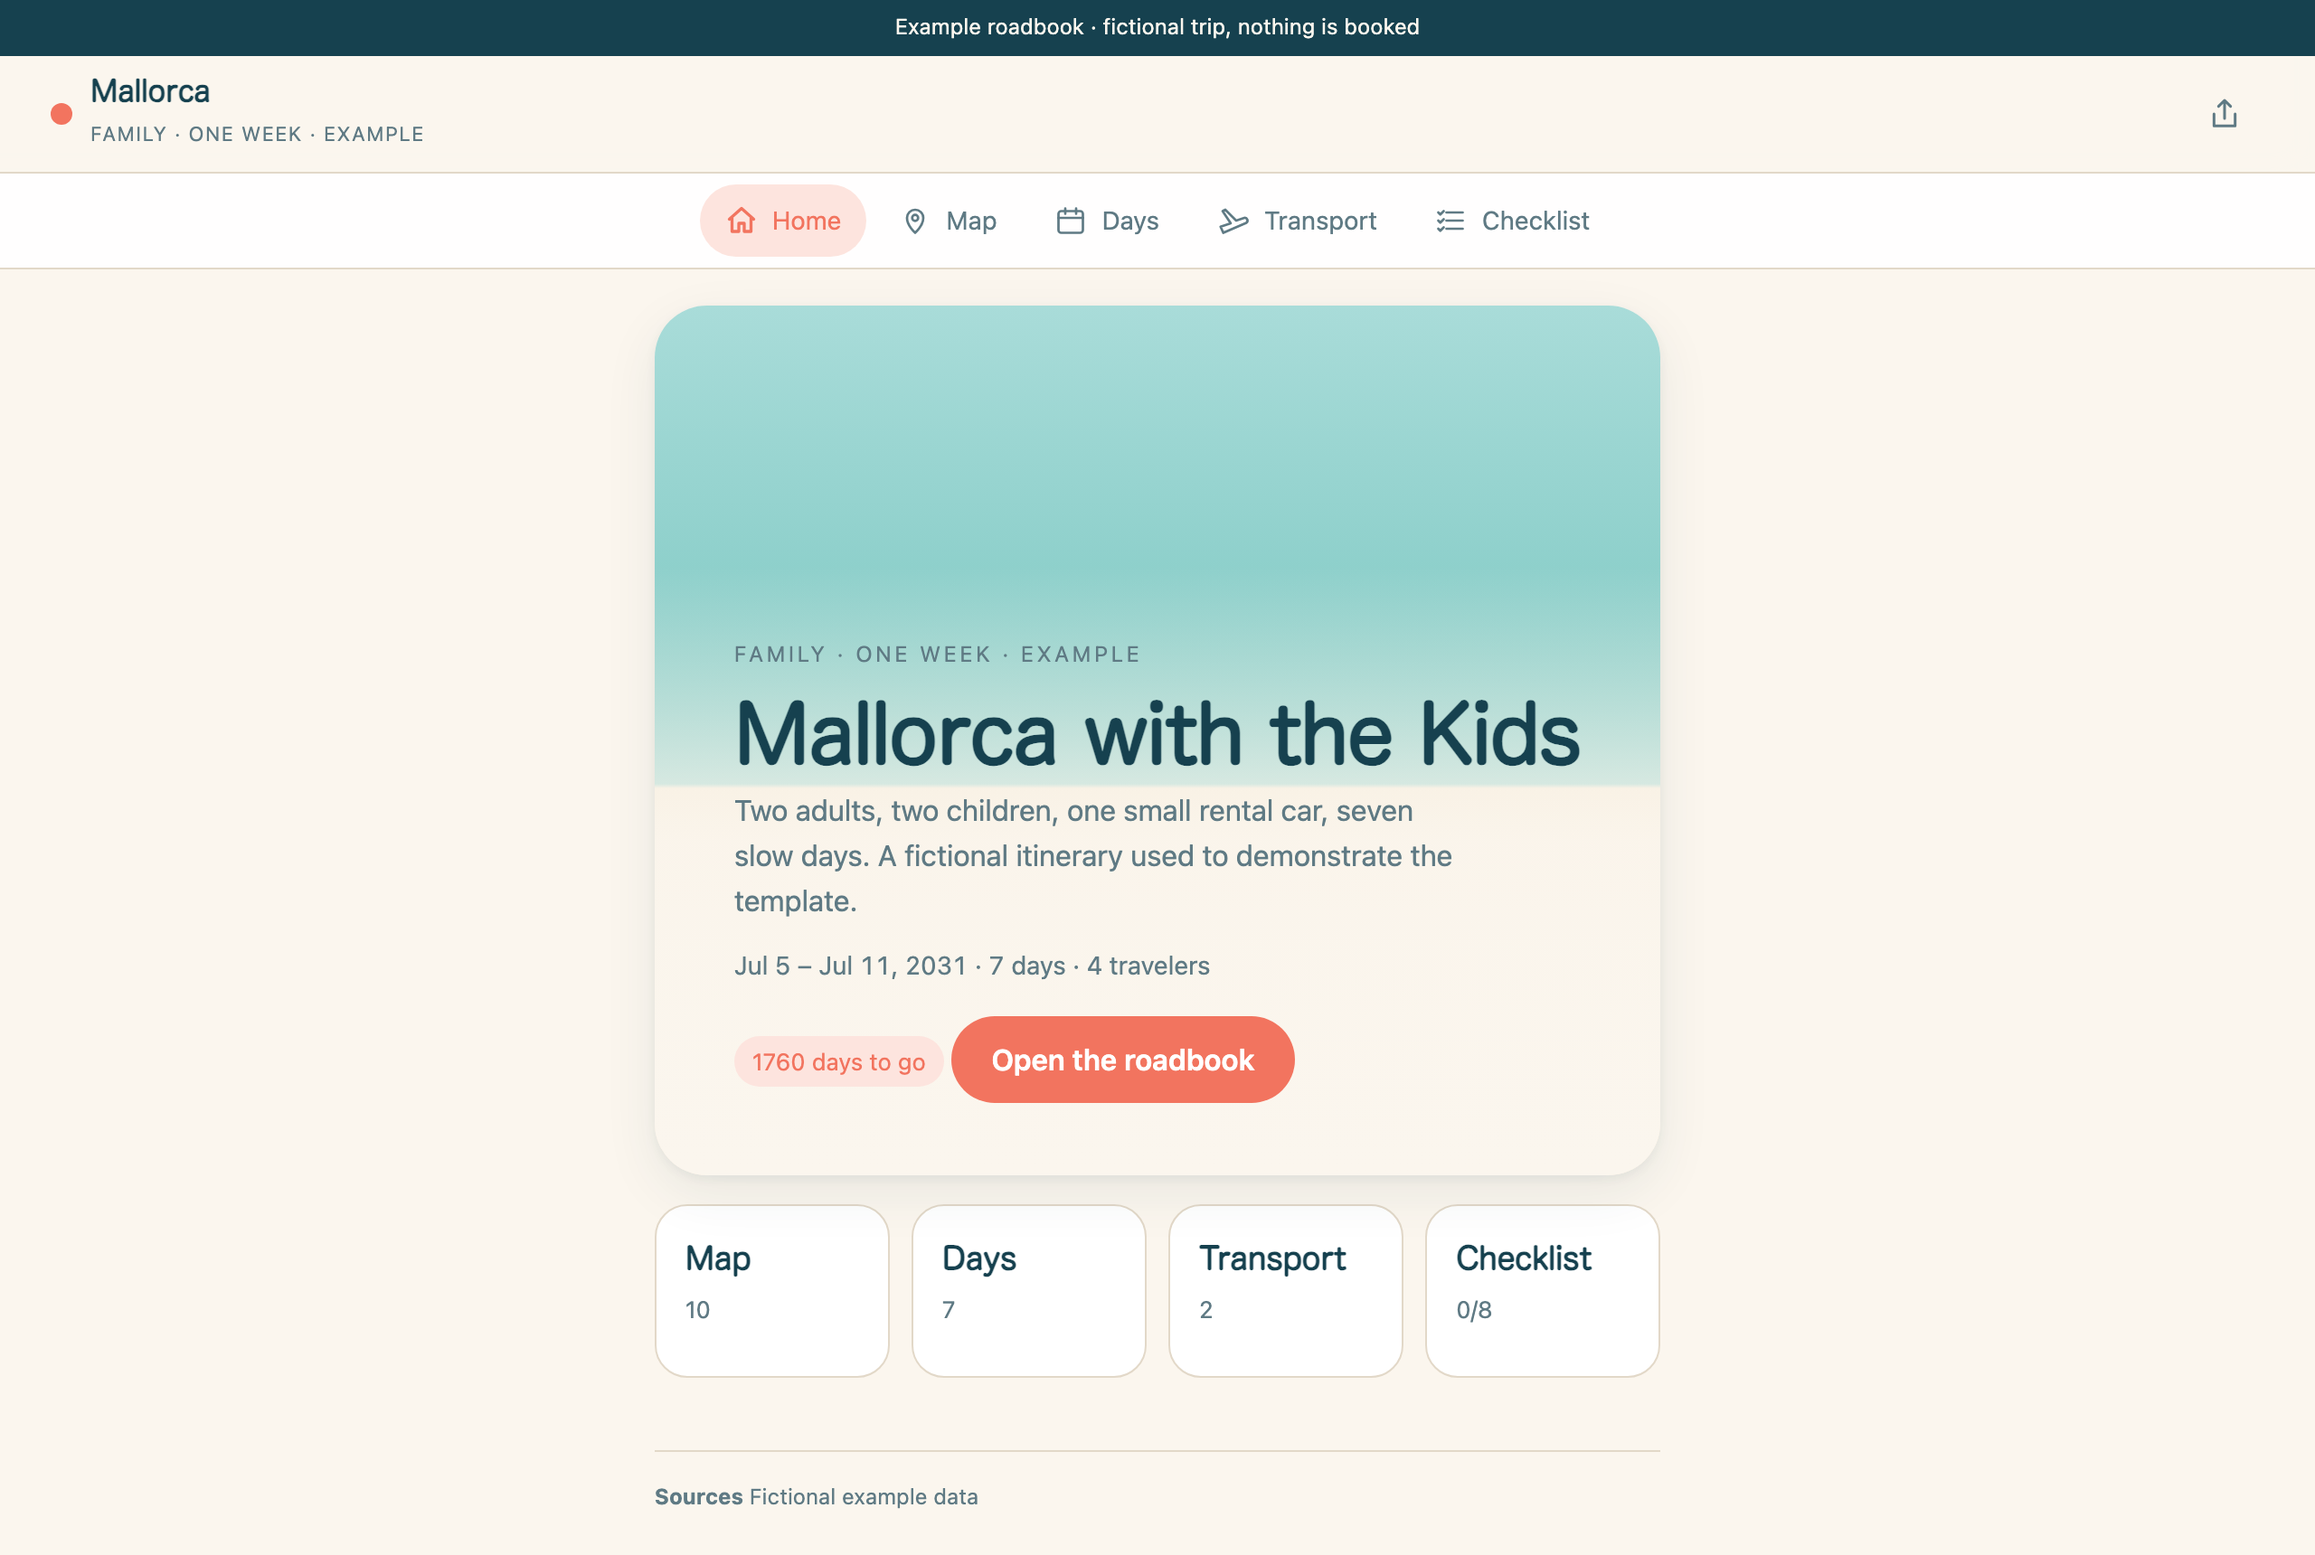
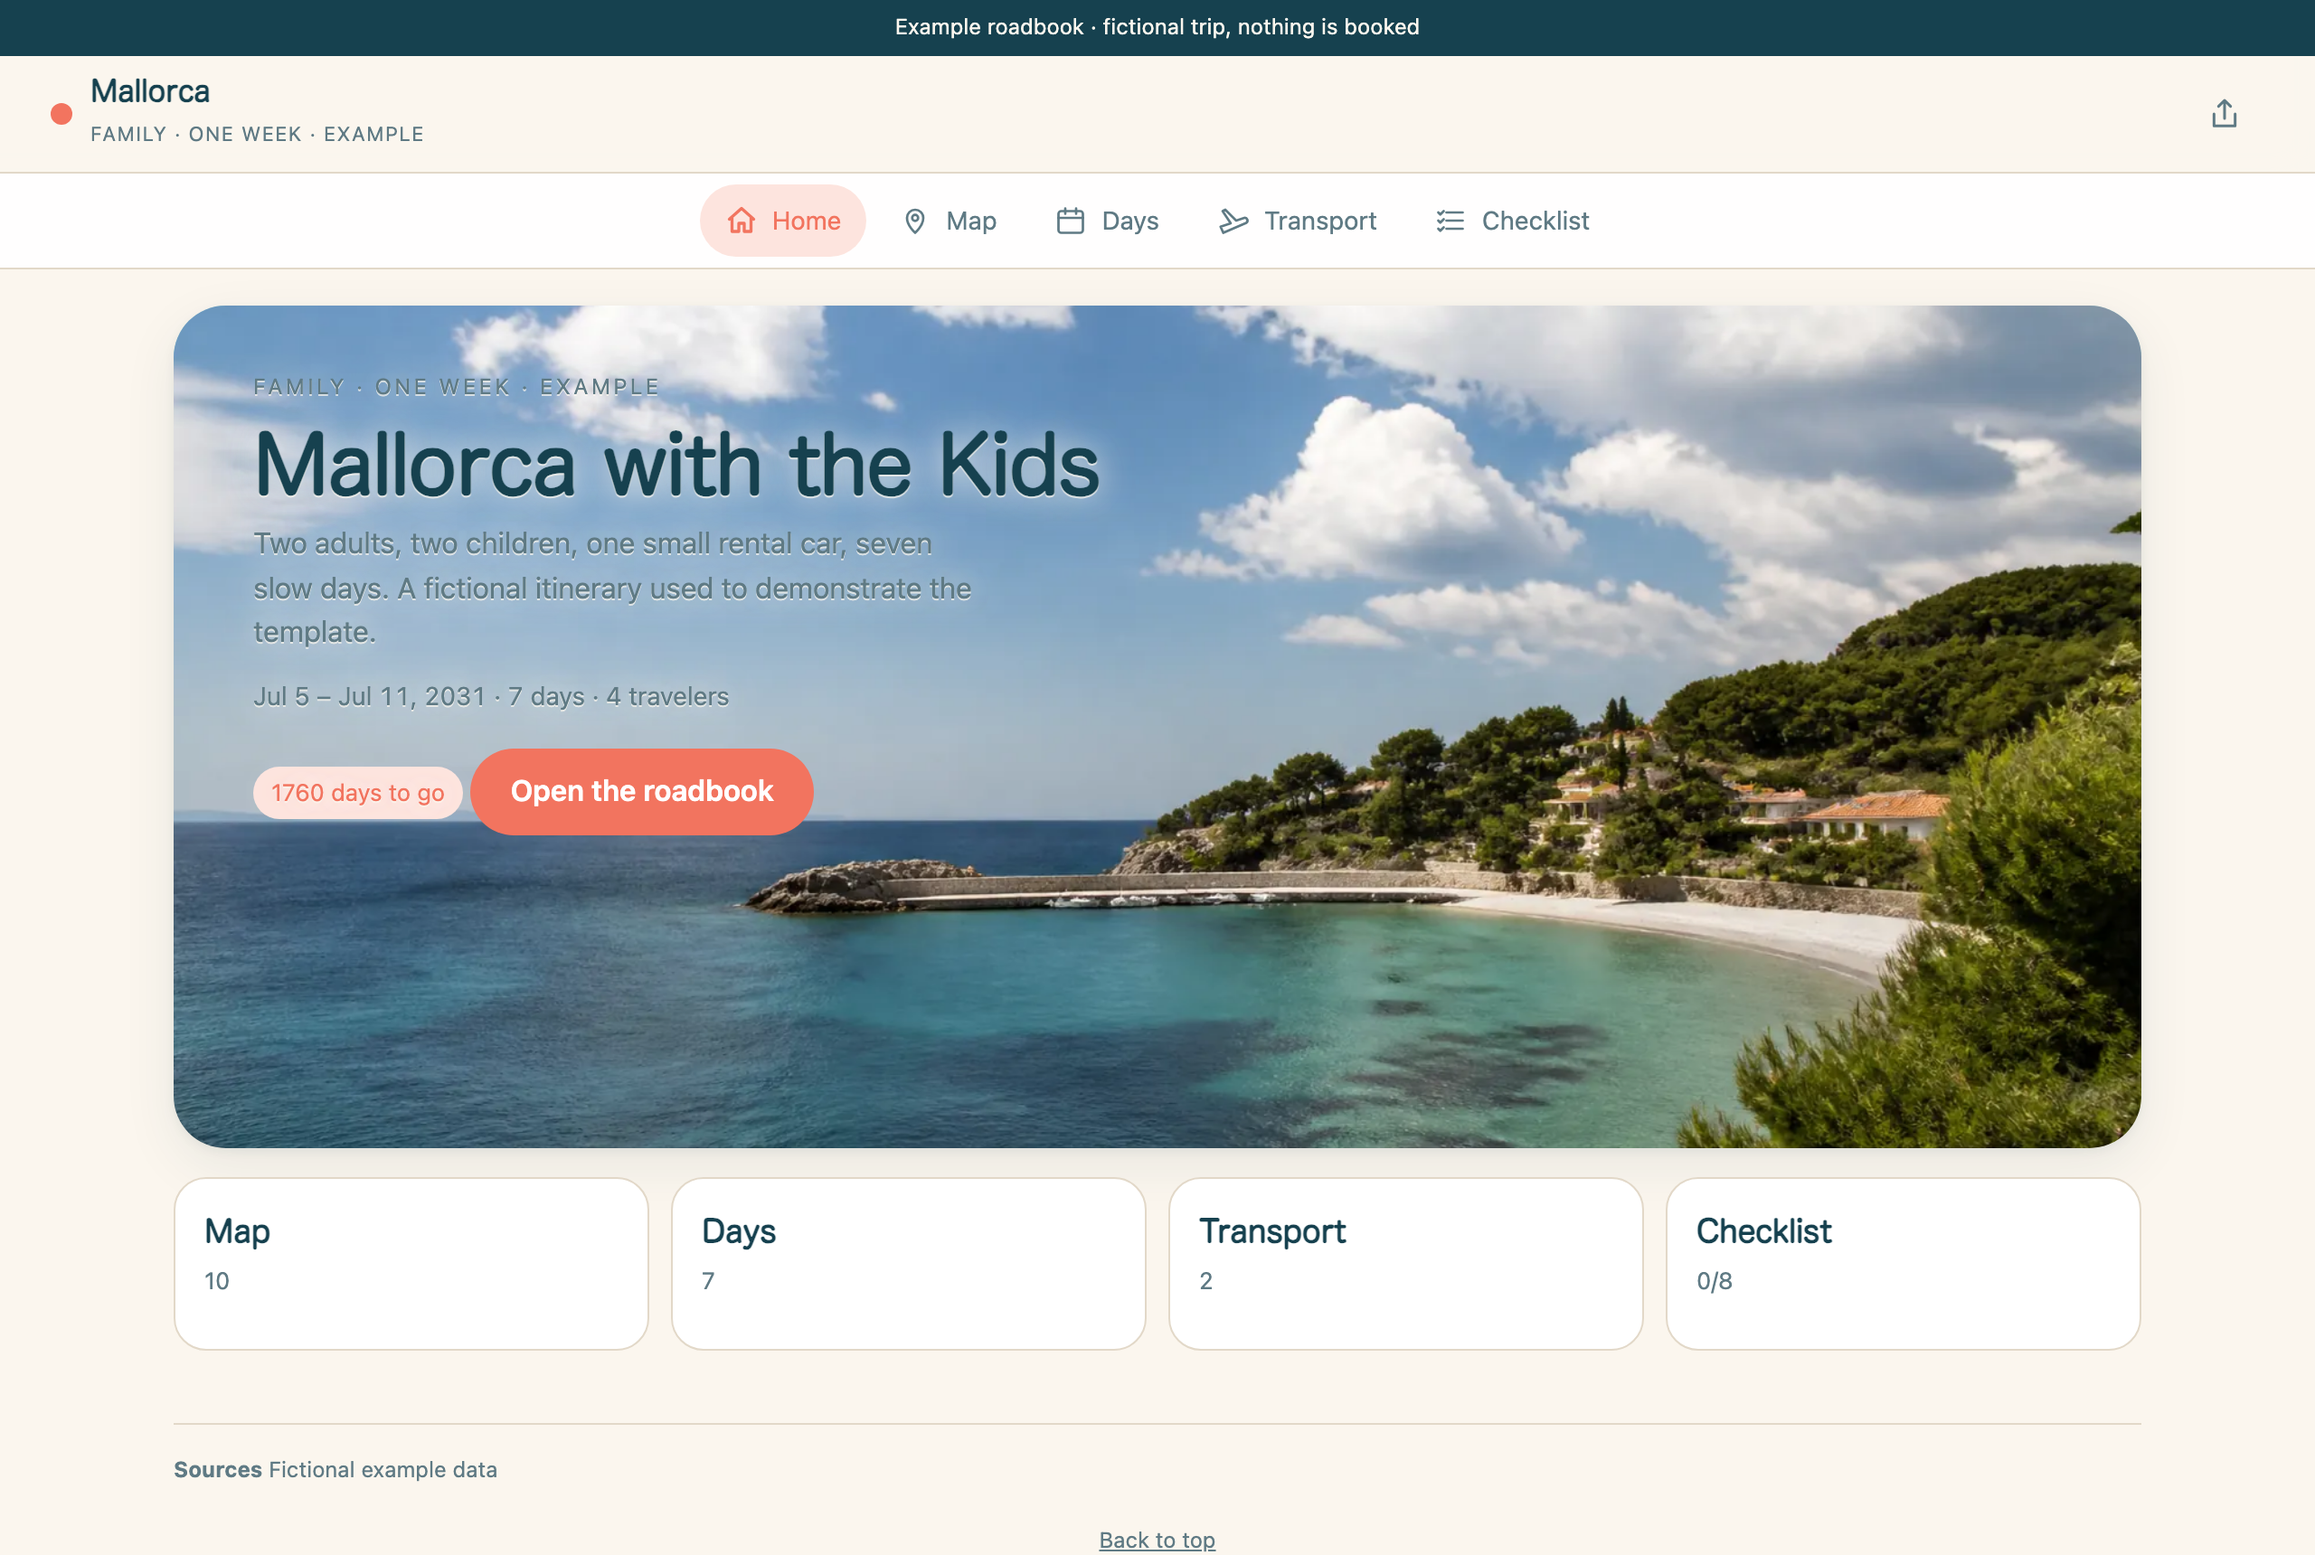
feat: photo set for family-island; README screenshots with photos; visuals docs updated

diff --git a/examples/family-island/ASSETS.md b/examples/family-island/ASSETS.md
@@ -4,3 +4,13 @@ All images are AI-generated photorealistic pictures made for this fictional exam
 
 | File | Used by | Kind | SHA-256 | Prompt |
 | --- | --- | --- | --- | --- |
+| `assets/cover.webp` | `trip.cover.image` | realistic photograph (GPT Image 2 via Lovart) | `74ea19f2df8df782…` | Wide 21:9 cinematic-ratio realistic photograph, 2K. Realistic photograph, natural light, shot on a full-frame camera with a 35mm lens, true-to-life colors, gentle film-like grain, no HDR, no illustration, no painting, no… |
+| `assets/day-1.webp` | `days[day-1].cover` | realistic photograph (GPT Image 2 via Lovart) | `481b7299cfe1d9dc…` | Square 1:1 realistic photograph. Realistic photograph, natural light, shot on a full-frame camera with a 35mm lens, true-to-life colors, gentle film-like grain, no HDR, no illustration, no painting, no cartoon. No people… |
+| `assets/day-2.webp` | `days[day-2].cover` | realistic photograph (GPT Image 2 via Lovart) | `9625cf995a7940c5…` | Square 1:1 realistic photograph. Realistic photograph, natural light, shot on a full-frame camera with a 35mm lens, true-to-life colors, gentle film-like grain, no HDR, no illustration, no painting, no cartoon. No people… |
+| `assets/day-3.webp` | `days[day-3].cover` | realistic photograph (GPT Image 2 via Lovart) | `014e8c3f6732e798…` | Square 1:1 realistic photograph. Realistic photograph, natural light, shot on a full-frame camera with a 35mm lens, true-to-life colors, gentle film-like grain, no HDR, no illustration, no painting, no cartoon. No people… |
+| `assets/day-4.webp` | `days[day-4].cover` | realistic photograph (GPT Image 2 via Lovart) | `11e0e99eb6f7ee12…` | Square 1:1 realistic photograph. Realistic photograph, natural light, shot on a full-frame camera with a 35mm lens, true-to-life colors, gentle film-like grain, no HDR, no illustration, no painting, no cartoon. No people… |
+| `assets/day-5.webp` | `days[day-5].cover` | realistic photograph (GPT Image 2 via Lovart) | `646daf2d4a40dc6e…` | Square 1:1 realistic photograph. Realistic photograph, natural light, shot on a full-frame camera with a 35mm lens, true-to-life colors, gentle film-like grain, no HDR, no illustration, no painting, no cartoon. No people… |
+| `assets/day-6.webp` | `days[day-6].cover` | realistic photograph (GPT Image 2 via Lovart) | `f8256596939e75cc…` | Square 1:1 realistic photograph. Realistic photograph, natural light, shot on a full-frame camera with a 35mm lens, true-to-life colors, gentle film-like grain, no HDR, no illustration, no painting, no cartoon. No people… |
+| `assets/day-7.webp` | `days[day-7].cover` | realistic photograph (GPT Image 2 via Lovart) | `e46e0960f5298624…` | Square 1:1 realistic photograph. Realistic photograph, natural light, shot on a full-frame camera with a 35mm lens, true-to-life colors, gentle film-like grain, no HDR, no illustration, no painting, no cartoon. No people… |
+| `assets/paper.webp` | `trip.textures.paper` | realistic photograph (GPT Image 2 via Lovart) | `62a96c1b69d011cd…` | Square 1:1 realistic photograph. Realistic photograph, natural light, shot on a full-frame camera with a 35mm lens, true-to-life colors, gentle film-like grain, no HDR, no illustration, no painting, no cartoon. No people… |
+| `assets/route.webp` | `routeOverview.image` | realistic photograph (GPT Image 2 via Lovart) | `5f1698d6521aa5dc…` | Landscape 4:3 realistic photograph. Realistic photograph, natural light, shot on a full-frame camera with a 35mm lens, true-to-life colors, gentle film-like grain, no HDR, no illustration, no painting, no cartoon. No peo… |

diff --git a/docs/VERIFICATION.md b/docs/VERIFICATION.md
@@ -33,7 +33,7 @@ Performed in the in-app Chromium at 375 × 812 (mobile) and the pane's desktop w
 | Rental block renders pick-up, return-by, deposit, coverage, fuel policy | runtime | Pass (family-island) |
 | Motion layer (`motion.mjs`): day fold animates then lands on the correct native `open` state; dialog entrance does not interfere with close; press feedback | scripted | Pass (japan-hiking, after porting from the Kumano site) |
 | Showcase `showcase/kumano-kodo`: `npm ci`, 8 core tests, `build:visuals`, `build.py --public-only --package` from its new location; 38 files, release audit passed | logic + structure | Pass |
-| Cold-load payload, japan-hiking, uncompressed | measured | 83 KB total (HTML 4.4, CSS 23.8, JS 38, i18n 3.2, data 14); ≈25 KB gzipped. No images, no web fonts, no third-party scripts. |
+| Cold-load payload, japan-hiking, uncompressed | measured | Template files 83 KB (HTML 4.4, CSS 23.8, JS 38, i18n 3.2, data 14; ≈25 KB gzipped) plus the cover photo ≈95 KB before first paint; day thumbnails (15–60 KB each), route photo and paper tile load lazily. No web fonts, no third-party scripts. |
 | Weak network / throttled load | — | Not measured. Payload is small enough that first paint should be one round trip after HTML; not proven. |
 | Reduced-motion preference | structure | CSS rule present; not observed. |
 
@@ -47,6 +47,6 @@ See [AGENTS.md](AGENTS.md) for the recorded runs (Claude Code passed; Codex CLI:
 - No real traveler has built a roadbook with it yet. The stage-one goal (ten strangers) has zero data points.
 - No real-device test on iOS Safari or Android Chrome; the mobile checks above are emulated viewports.
 - No screen-reader pass beyond `aria-label`/`aria-current` attributes being present.
-- No test of a trip with images or a self-hosted font; the code paths exist (`trip.cover.image`, `publishAssets`) and are covered only by the build test copying referenced assets.
+- No test of a self-hosted font. Images are exercised by the three examples (cover, day thumbnails, route photo, paper tile); each example builds under 1.5 MB and the audit passes.
 
 Update this file when a row changes level. Do not summarise it into a badge.

diff --git a/docs/VISUALS.md b/docs/VISUALS.md
@@ -9,11 +9,11 @@ The template ships with no images. Each example adds a small set, all AI-generat
 
 ## The two grammars
 
-**Cover — one scene.** A wide (21:9) illustration in a style that matches the theme: ink-and-wash for `field-notes`, mid-century rail poster for `timetable`, loose watercolor for `tide`. Leave open sky where the title will sit; on phones the title moves below the image, so the crop only has to work as a 4:3 window (`trip.cover.position`).
+**Cover — one scene.** A wide (21:9) realistic photograph of the trip's defining landscape. Leave open sky where the title will sit (`trip.cover.copy` picks the corner on desktop); on phones the title moves below the image, so the crop only has to work as a 4:3 window (`trip.cover.position`).
 
-**Everything else — one paper poster.** Day thumbnails, the route sketch and the paper tile follow the "minimal zine" grammar: full-frame scanned paper, 70–85% empty, one small visual event (a photo fragment, a silhouette, a torn shape, a line), one saturated accent hue that matches the theme accent, print defects (risograph grain, misregistration), and **no text at all**. Thumbnails are generated square with the event centred so a 64 px crop still reads.
+**Everything else — one photograph, one subject.** Day thumbnails are square photographs of a single object or moment from that day (a plane window, a bus-stop pole, a mossy step, two tickets on a counter). The route image is a photo of a paper map on a table with its text out of focus. The paper tile is a flat scan of plain paper, shown at 16% opacity behind cards. All are generated at 2K with GPT Image 2 (low tier) through Lovart, then resized to WebP.
 
-Per-example accents: moss green `#4f6b4a`, signal red `#d5232a`, coral `#f2745f`. Paper tones: warm ivory, cool grey-white, pale sand.
+Shared constraints in every prompt: realistic photograph, natural light, 35 mm, no HDR, no illustration; no recognizable faces, no readable text, no signs, no logos.
 
 ## Brief template (fill seven lines before generating)
 

diff --git a/README.md b/README.md
@@ -20,7 +20,7 @@ Three fictional examples ship with the repo. Nothing in them is booked; they exi
 | ![Kiso Valley example, desktop home](docs/screenshots/japan-hiking-desktop.png) | ![Four cities by rail, desktop home](docs/screenshots/europe-rail-desktop.png) | ![Mallorca family example, desktop home](docs/screenshots/family-island-desktop.png) |
 | ![mobile days page](docs/screenshots/japan-hiking-mobile-days.png) | ![mobile transport page](docs/screenshots/europe-rail-mobile-transport.png) | ![mobile days page](docs/screenshots/family-island-mobile-days.png) |
 
-Five-day valley walk with a ferry-free rail return; an eight-day rail loop that crosses the end of European summer time; a one-week family trip with a rental car. Different moods, same data shape.
+Five-day valley walk; an eight-day rail loop that crosses the end of European summer time; a one-week family trip with a rental car. Different moods, same data shape. All photos are AI-generated for the fictional trips (GPT Image 2 via Lovart); see each example's `ASSETS.md` and [docs/VISUALS.md](docs/VISUALS.md).
 
 ## Quick start (no AI needed)
 

diff --git a/README.zh-CN.md b/README.zh-CN.md
@@ -20,7 +20,7 @@
 | ![木曾谷示例，桌面首页](docs/screenshots/japan-hiking-desktop.png) | ![欧洲铁路示例，桌面首页](docs/screenshots/europe-rail-desktop.png) | ![马略卡亲子示例，桌面首页](docs/screenshots/family-island-desktop.png) |
 | ![手机日程页](docs/screenshots/japan-hiking-mobile-days.png) | ![手机交通页](docs/screenshots/europe-rail-mobile-transport.png) | ![手机日程页](docs/screenshots/family-island-mobile-days.png) |
 
-五天山谷徒步；八天跨四国的铁路环线（跨越欧洲夏令时结束）；一周带孩子的海岛自驾。气质不同，数据结构相同。
+五天山谷徒步；八天跨四国的铁路环线（跨越欧洲夏令时结束）；一周带孩子的海岛自驾。气质不同，数据结构相同。所有照片均为为虚构行程生成的 AI 图像（GPT Image 2，经 Lovart），提示词与校验值见各示例的 `ASSETS.md` 和 [docs/VISUALS.md](docs/VISUALS.md)。
 
 ## 快速开始（不需要 AI）
 
